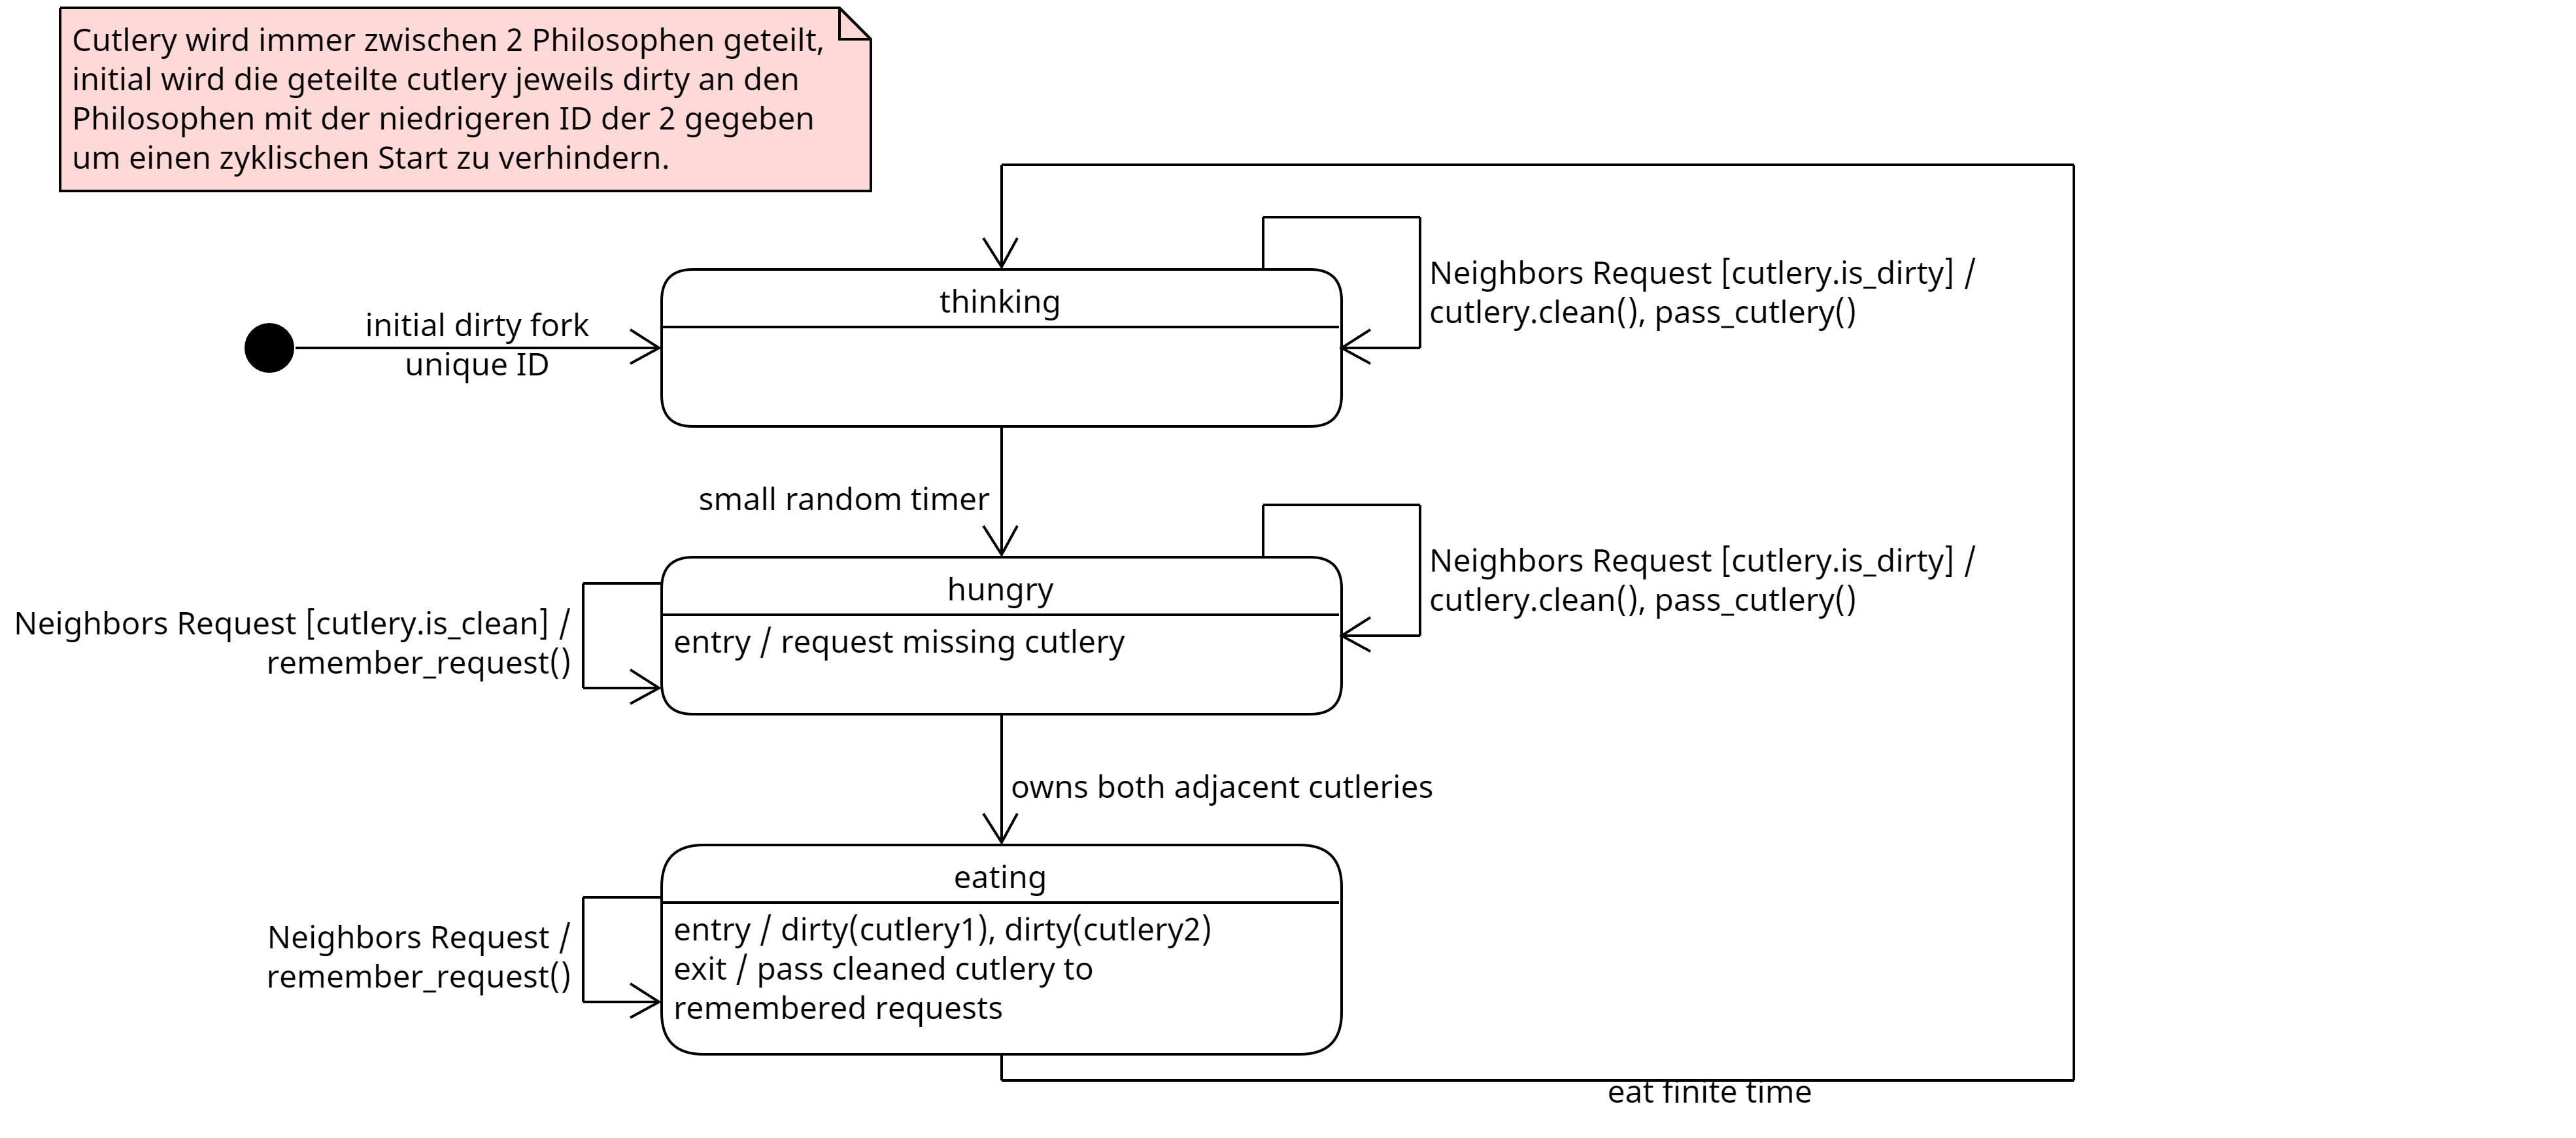
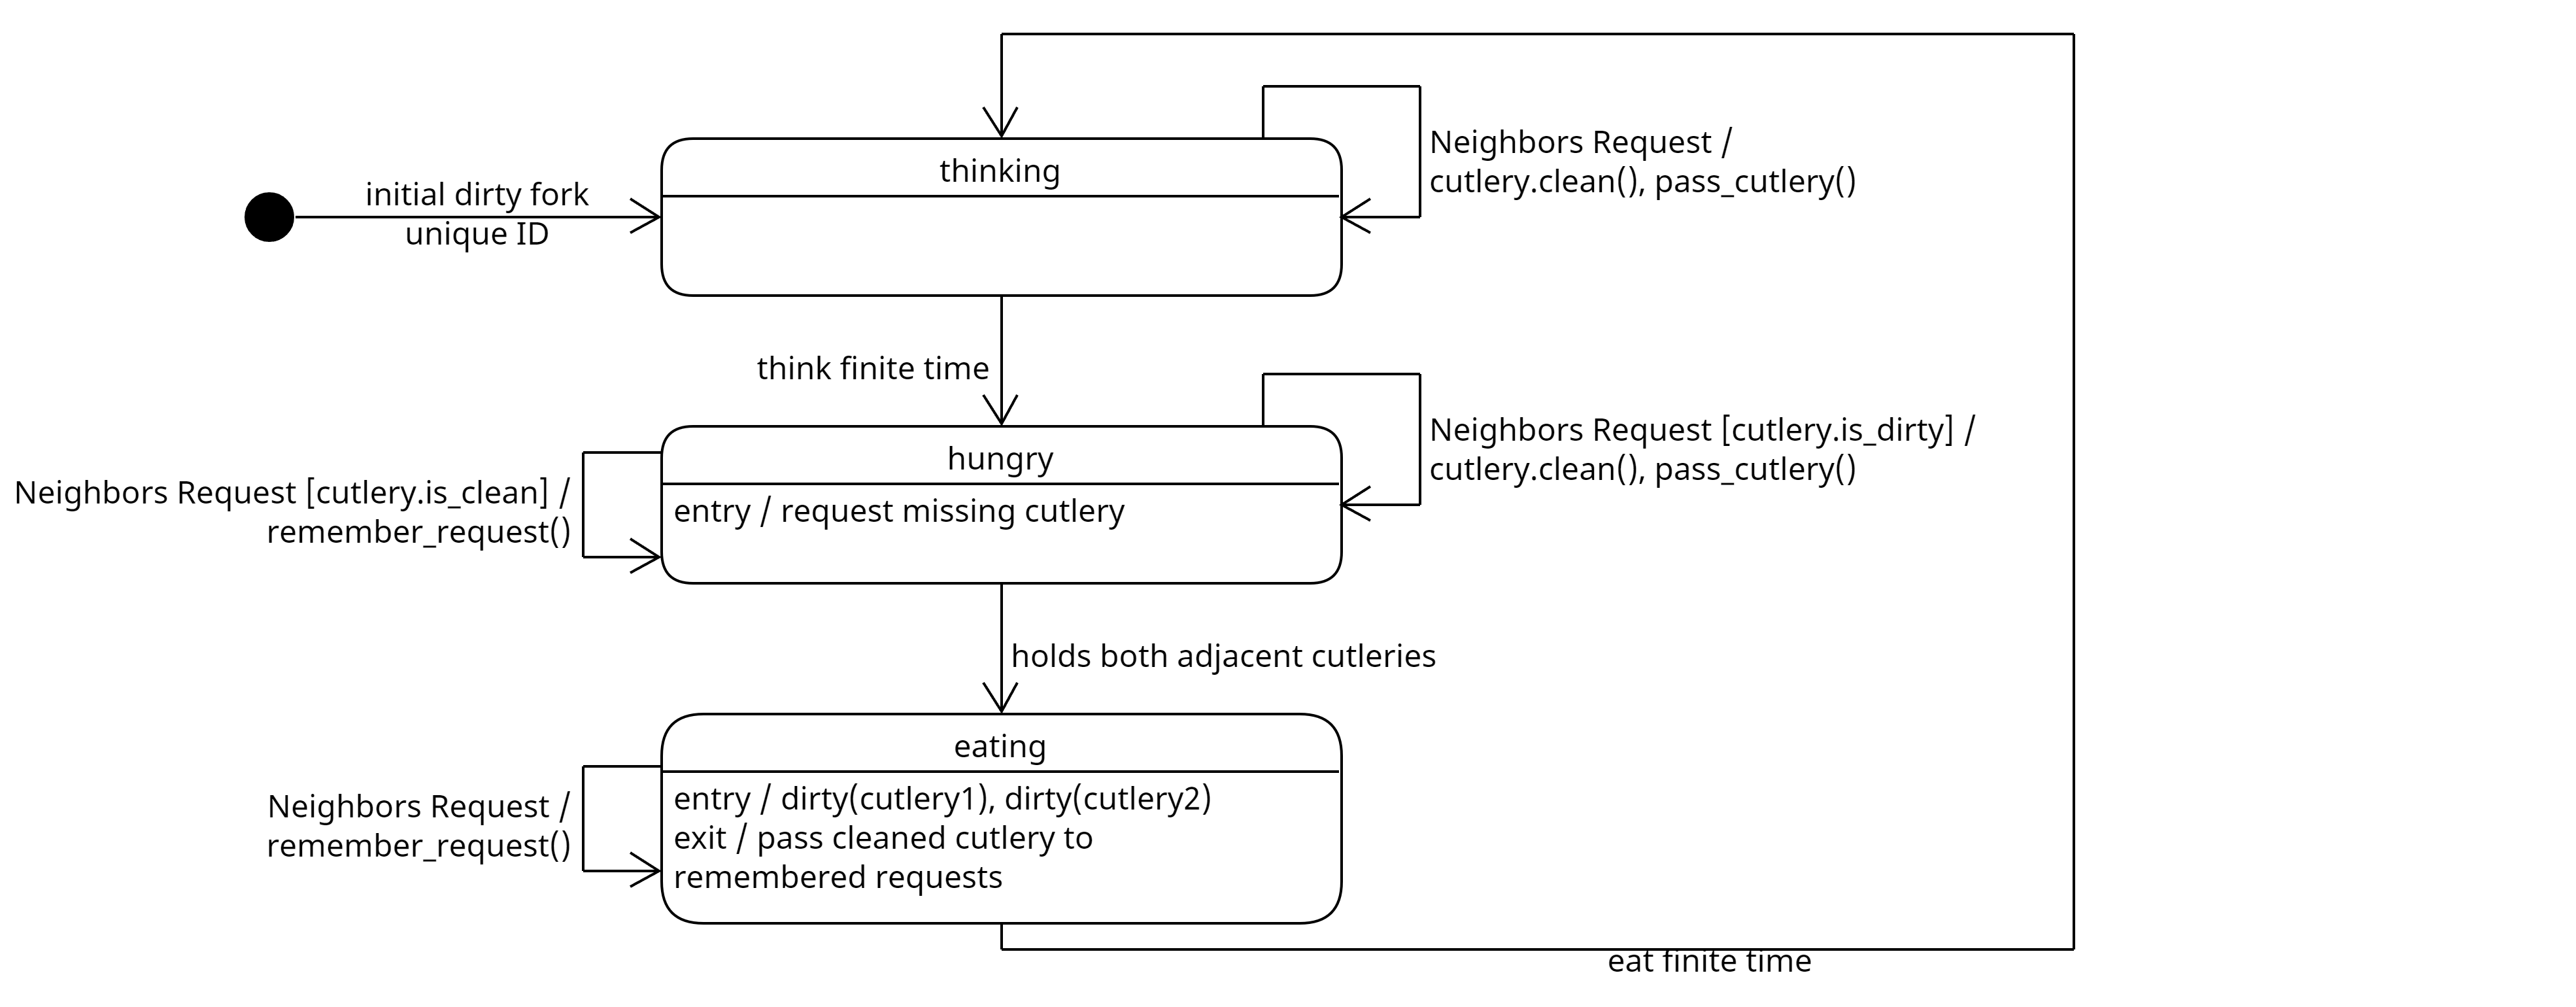
logik doku

diff --git a/docs/chapters/060_logik.tex b/docs/chapters/060_logik.tex
@@ -2,7 +2,32 @@
 
 \begin{figure}[H]
     \centering
-    \includegraphics[width=0.7\textwidth]{images/philosoph.png}
+    \includegraphics[width=0.9\textwidth]{images/philosoph.png}
     \caption{Philosoph Logikaufbau}
-    \label{fig:setup}
+    \label{fig:philosoph}
 \end{figure}
+IDs werden von in der Reihenfolge der Registrierung beim Waiter von 0 bis zur Anzahl Philosophen - 1 vergeben.
+
+\noindent Besteck wird immer zwischen zwei Philosophen geteilt und darf nur von einem Philosophen gleichzeitig genutzt werden. Es gibt genauso viel Besteck wie Philosophen.
+
+\noindent Besteck wird vor dem Abgeben an Nachbarn von Philosophen gereinigt und müssen zu jedem Zeitpunkt einem der zwei angrenzenden Philosophen gehören.
+
+
+\noindent Philosophen haben 3 States:
+\begin{itemize}
+    \item thinking: der Philosoph denk eine endliche Zeit, währenddessen gibt er sein Besteck auf Nachfrage an seine Nachbarn ab.
+    \item hungry: der Philosoph fragt seine Nachbarn nach dem ihm fehlendem Besteck und gibt nur dreckiges Besteck auf Nachfrage ab und merkt sich Anfragen zu sauberem.
+    \item eating: der Philosoph hat beide Bestecke und isst eine endliche Zeit, währnddessen merkt er sich Anfrage zu Besteck. Das Besteck wird dreckig und vor dem Wechsel zurück zu thinking gibt der Philosoph an die gemerkten Anfragen ab.
+\end{itemize}
+\noindent Philosophen können Bestecke nicht weggenommen werden.
+
+\noindent Initial bekommen Philosophen mit gerader ID keine Bestecke und mit ungerader ID beide Bestecke um eine nicht zyklischen Startverteilung zu haben bei einer ungeraden Zahl Bestecke bekommt der Philosoph mit der höchsten ID ein Besteck.
+
+\noindent Wenn die Startverteilung nicht zyklisch ist kann mindestens ein Philosoph zu Beginn eating erreichen, dies bedeutet das er anschließend beide Bestecke abgibt sobald seine Nachbarn diese anfragen, die Nachbarn fragen diese erst an wenn sie in hungry sind und geben in diesen Zustand das Besteck erst wieder ab nachdem sie eating erreicht haben, da sie es sauber erhalten. Damit ist sicher gestellt das keine zyklische Abhängigkeit entstehen kann, weil der Philosoph der in eating war hat keine Bestecke erhalten kann bis seinen Nachbarn in eating waren und solange ein Philosoph keine Bestecke hat ein anderer aufgrund der gleichen Anzahlvon Philosophen und Bestecken zwei Bestecke haben muss.
+\begin{figure}[H]
+    \centering
+    \includegraphics[width=0.7\textwidth]{images/zyklische_Abhaengigkeit.jpg}
+    \caption{Beispiel Verhinderung zyklischer Abhaengigkeit}
+    \label{fig:zyklische_abhaengigkeit}
+\end{figure}
+\noindent Hier ein Beispiel dazu: 0 hat gegessen, die Pfeile zeigen die Verteilung der Bestecke was darin resultiert das sowohl bei gerader als auch ungerader Anzahl Philosoph einer zwei Bestecke haben muss.

diff --git a/docs/RDT.tex b/docs/RDT.tex
@@ -62,9 +62,9 @@ Zacharias, Laurin\\
 %%% Begin document %%%
 \begin{document}
 
-\maketitle           
-\clearpage 
-                
+\maketitle
+\clearpage
+
 \tableofcontents
 \clearpage
 